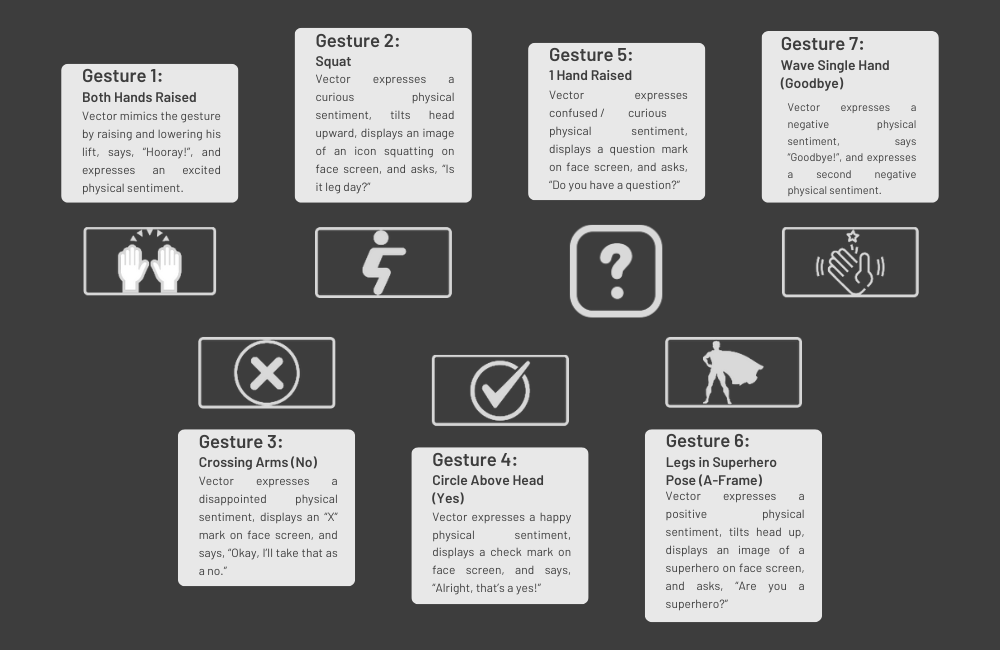
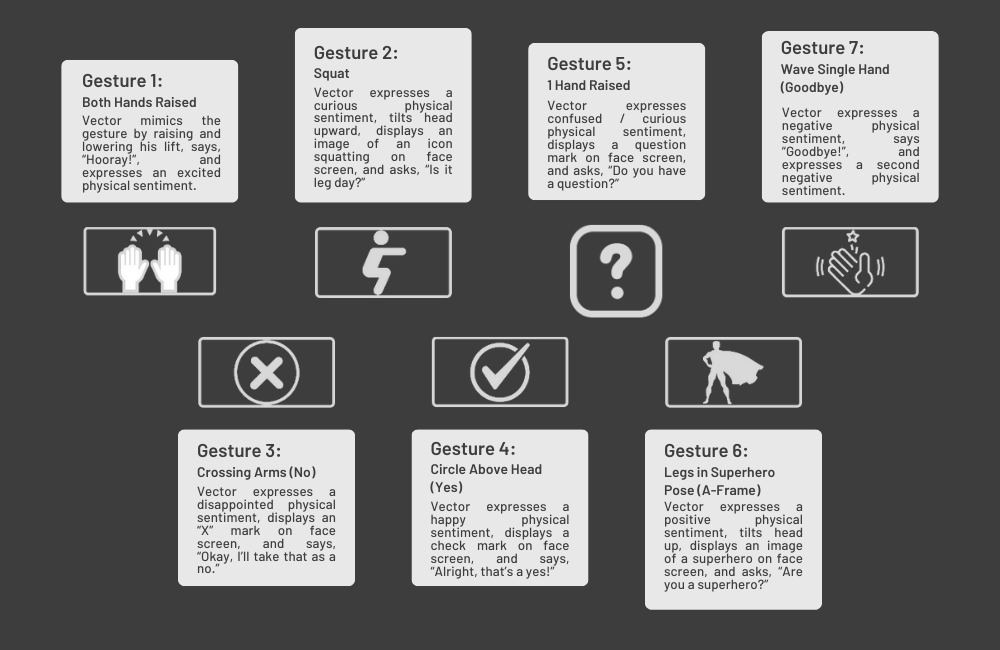
Replaced gesture classification image; fixing image text in roboUDA.md

diff --git a/_academics/roboUDA.md b/_academics/roboUDA.md
@@ -68,7 +68,7 @@ Vector behavioral responses and display screen graphic projections to gesture cl
 {:.figcaption}
 
 ### RTMO Backbone + Perspective Aware Classification
-The [RTMO](https://mmpose.readthedocs.io/en/latest/model_zoo_papers/algorithms.html#rtmo) model that served as our backbone came pretrained on generalized gesture data using keypoint features and had extensive recognition capabilities.  It is capable of gesture recognition in crowds and partial image gesture recognition.  
+The [RTMO](https://mmpose.readthedocs.io/en/latest/model_zoo_papers/algorithms.html#rtmo) model that served as our backbone came pretrained on generalized gesture data using keypoint features and had extensive recognition capabilities.  It is capable of gesture recognition in crowds and partial image gesture recognition. An adversarial domain dischriminator was added to impelement the UDA.  
 
 ## Results
 
